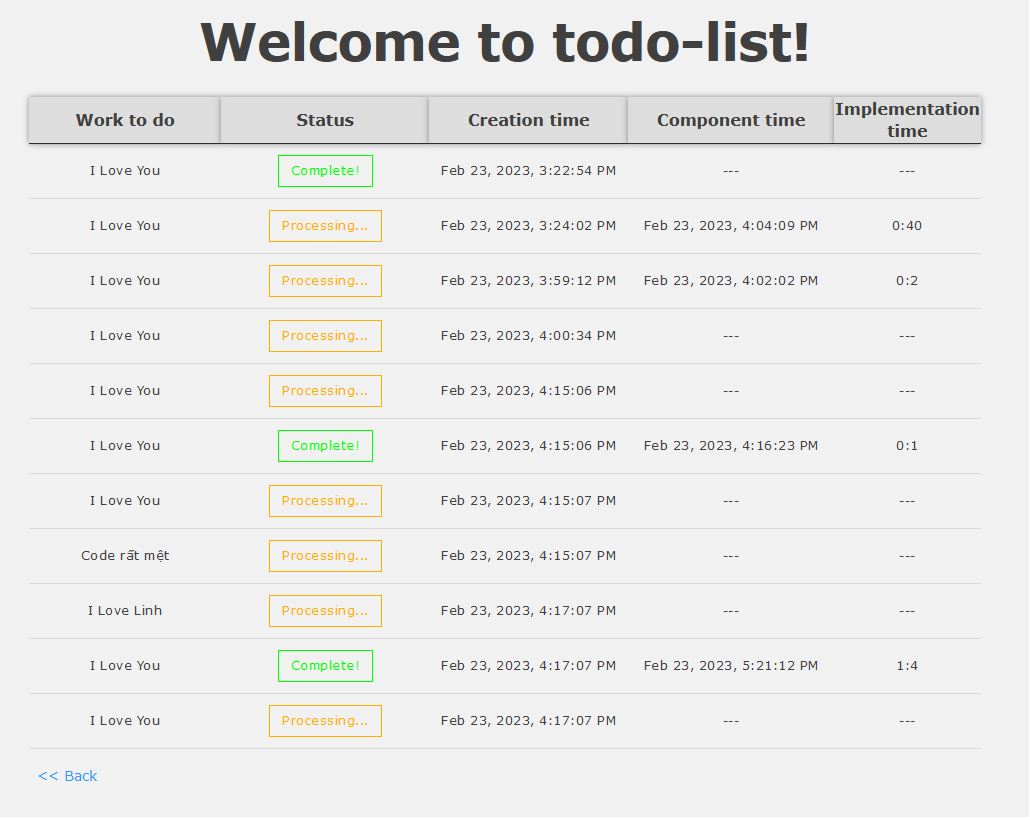
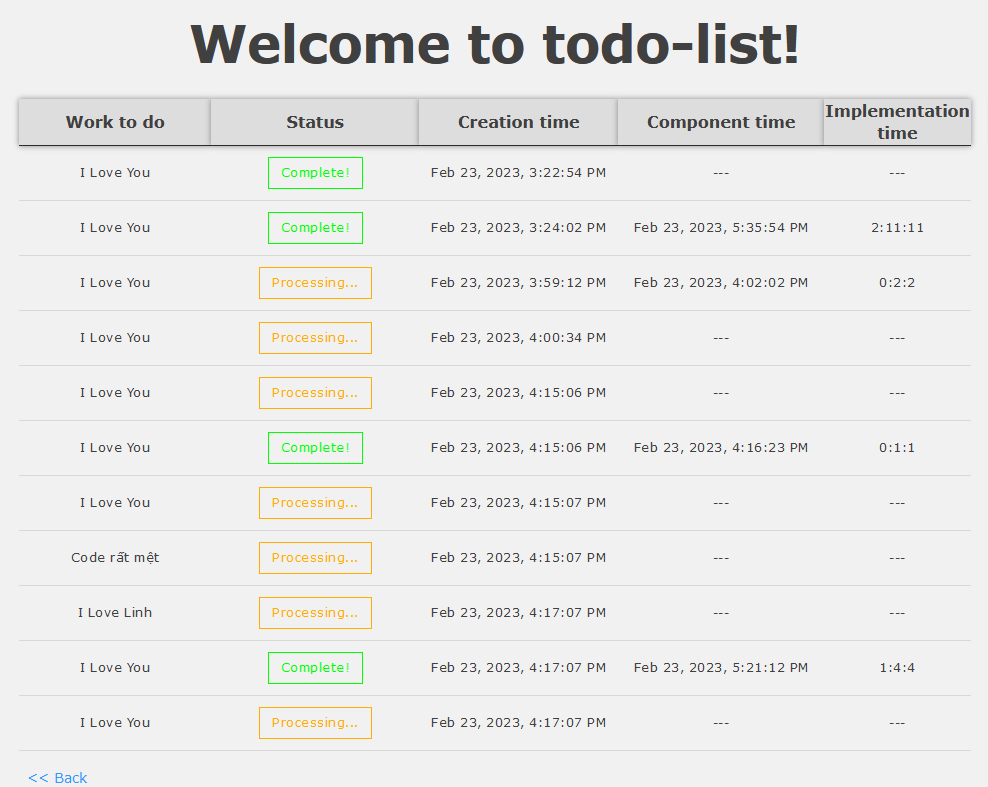
update file readme.md

diff --git a/src/app/todo-list-detail-component/todo-list-detail-component.component.ts b/src/app/todo-list-detail-component/todo-list-detail-component.component.ts
@@ -132,12 +132,13 @@ export class TodoListDetailComponentComponent implements OnInit {
   determineExecutionTime(item: TodoItem): string {
     var milliSecondDiff = (item.comp_time==null?0:parseInt(item.comp_time+'')) - (item.cre_time==null?0:parseInt(item.cre_time+''));
     var secondDiff = Math.floor(milliSecondDiff / 1000) ;
+    var second = secondDiff % 60;
     var minutes = Math.floor(secondDiff / 60);
     var hour = Math.floor(minutes / 60);
     var minute = Math.floor(minutes % 60);
 
 
-    return hour.toString()  + ":" + minute.toString();
+    return hour.toString()  + ":" + minute.toString() + ":" + minute.toString();
     // var timeStart = new Date('01/01/2007 ' + item.cre_time).getHours();
     // var timeEnd = new Date('01/01/2007 ' + item.comp_time).getHours();
 
